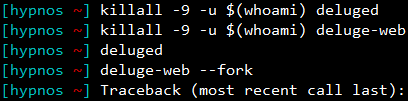
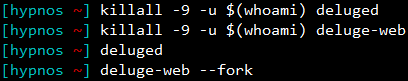
images

Changed region(s): [[0.0, 0.0247, 1.0, 0.9877], [0.3529, 0.0247, 0.4118, 0.0741], [0.0, 0.0247, 0.0294, 0.0741]]

diff --git a/Feral Wiki/Installable software/Restarting - rtorrent - Deluge - Transmission - MySQL/readme.md b/Feral Wiki/Installable software/Restarting - rtorrent - Deluge - Transmission - MySQL/readme.md
@@ -16,31 +16,22 @@ killall -9 -u $(whoami) rtorrent
 **2:** Start it again in a screen
 
 ~~~
-screen -fa -dmS rtorrent rtorrent
+screen -S rtorrent rtorrent
 ~~~
 
 If all goes well, you should be greeted with your rtorrent  and you should see your torrents. To exit rtorrent (and keep it running) press and hold `CTRL` and `a` then press `d` to detach from the screen once you are sure rtorrent is running.
 
-If instead you are given a "screen is terminating" error, please consult command (3).
+If you are given a "screen is terminating" error, please consult command (3).
 
-**3.0:** screen is terminating error
+**3.0:** Screen is terminating error
 
-**Important note:** This error is a screen command error and not a rtorrent error. It means that the screen command used could not be fully realised. This is because the above command attempts to start rtorrent as part of the command and, if rtorrent won't start, screen terminates.
-
-The first thing to do is to identify the cause for rtorrent not starting. To do this first create a screen process:
-
-~~~
-screen -S rtorrent
-~~~
-
-You will be put inside a new screen called `rtorrent`. Now inside this screen attempt to call and start rtorrent using this command:
+Attempt to start rtorrent using this command:
 
 ~~~
 rtorrent
 ~~~
 
-You will now usually see the error that rtorrent it throwing out. This is usually quite helpful in finding where the problem is. If you are not sure what the error means you can ask in IRC or open a support ticket.
-
+You will now usually see the error that rtorrent it throwing out. 
 You can try this in some cases: 
 
 ~~~
@@ -50,20 +41,10 @@ rm -rf ~/private/rtorrent/work/rtorrent.*
 **3.1:** Start it again in a screen:
 
 ~~~
-screen -fa -dmS rtorrent rtorrent
+screen -S rtorrent rtorrent
 ~~~
 
-To attach to this screen:
-
-~~~
-screen -r rtorrent
-~~~
-
-If for some reason it won't attach but the screen is running try this:
-
-~~~
-screen -xRR rtorrent
-~~~
+If all goes well, you should be greeted with your rtorrent  and you should see your torrents. To exit rtorrent (and keep it running) press and hold `CTRL` and `a` then press `d` to detach from the screen once you are sure rtorrent is running.
 
 ![](https://raw.github.com/feralhosting/feralfilehosting/master/Feral%20Wiki/Installable%20software/Restarting%20-%20rtorrent%20-%20Deluge%20-%20Transmission%20-%20MySQL/1.png)
 
@@ -135,7 +116,7 @@ deluged && deluge-web --fork
 
 If you get this error you will need to open a [support ticket](https://www.feralhosting.com/manager/tickets/) with a relevant title. This problem requires Staff to fix.
 
-twisted.internet.error.CannotListenError: Couldn't listen on any:53162: [Errno 98] Address already in use
+![](https://raw.github.com/feralhosting/feralfilehosting/master/Feral%20Wiki/Installable%20software/Restarting%20-%20rtorrent%20-%20Deluge%20-%20Transmission%20-%20MySQL/twisted.png)
 
 If all goes well, you should be greeted with an empty command prompt:
 
